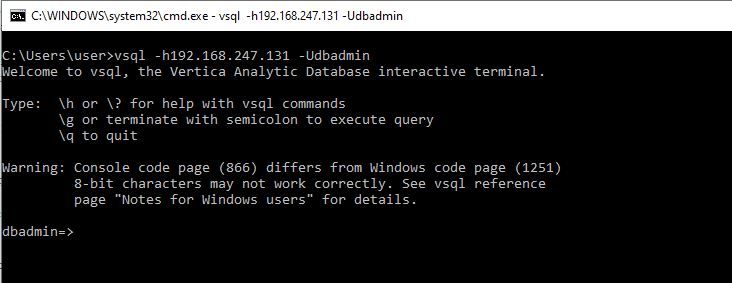
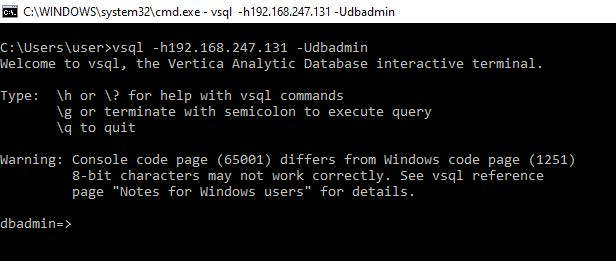
added ERD

Changed region(s): [[0.0, 0.0, 1.0, 1.0]]

diff --git a/HW8_Lesson16/readme.md b/HW8_Lesson16/readme.md
@@ -8,7 +8,9 @@ Definition of Done:  DDL объектов  DML шагов преобразова
 
 ## Решение:
 
-**Т.к. не было чёткого требования к источнику данных, да и суть ДЗ - это именно поделать витринки в целом, а не из поработать с каким-то источником данных, было принято решение выцыганить данные продаж интернет магазина у друзей =)**
+**Т.к. не было чёткого требования к источнику данных, да и суть ДЗ - это именно поделать витринки в целом, а не из поработать с каким-то источником данных, было принято решение выцыганить данные продаж интернет магазина у друзей =) Данные выглядят вот так:**
+
+![ERD](https://raw.githubusercontent.com/adm-8/otus-de-andreevds-2019-11/master/HW8_Lesson16/_images/erd.jpg)
 
 В моем случае саму Vertica я буду разворачивать на виртуалке с CentOS7, а конектиться к ней с виндовой машины. Погнали! Заходим на машине с CentOS7 в нужную папку куда будем клонировать репозиторий, в моем случае это:
 ```
@@ -37,6 +39,10 @@ docker run -p 5433:5433 -d -v /home/git/otus-de-andreevds-2019-11/HW8_Lesson16/d
 
 После того как запустился докер с вертикой, на виндовой (ну или любой другой где есть клиент vsql) машине соединяемся с базой. Соединение без пароля, указываем только имя пользователя dbadmin и IP адрес с вертикой, в моем случае получилось:
 ```
+cmd /K chcp 65001
+
 vsql -h192.168.247.131 -Udbadmin
 ```
 ![Connection_OK](https://raw.githubusercontent.com/adm-8/otus-de-andreevds-2019-11/master/HW8_Lesson16/_images/connection_ok.JPG)
+
+Соединение есть, прекрасно! Теперь можно выполнять наш [!DDL & DML](https://github.com/adm-8/otus-de-andreevds-2019-11/blob/master/HW8_Lesson16/DDL_DML.sql)
